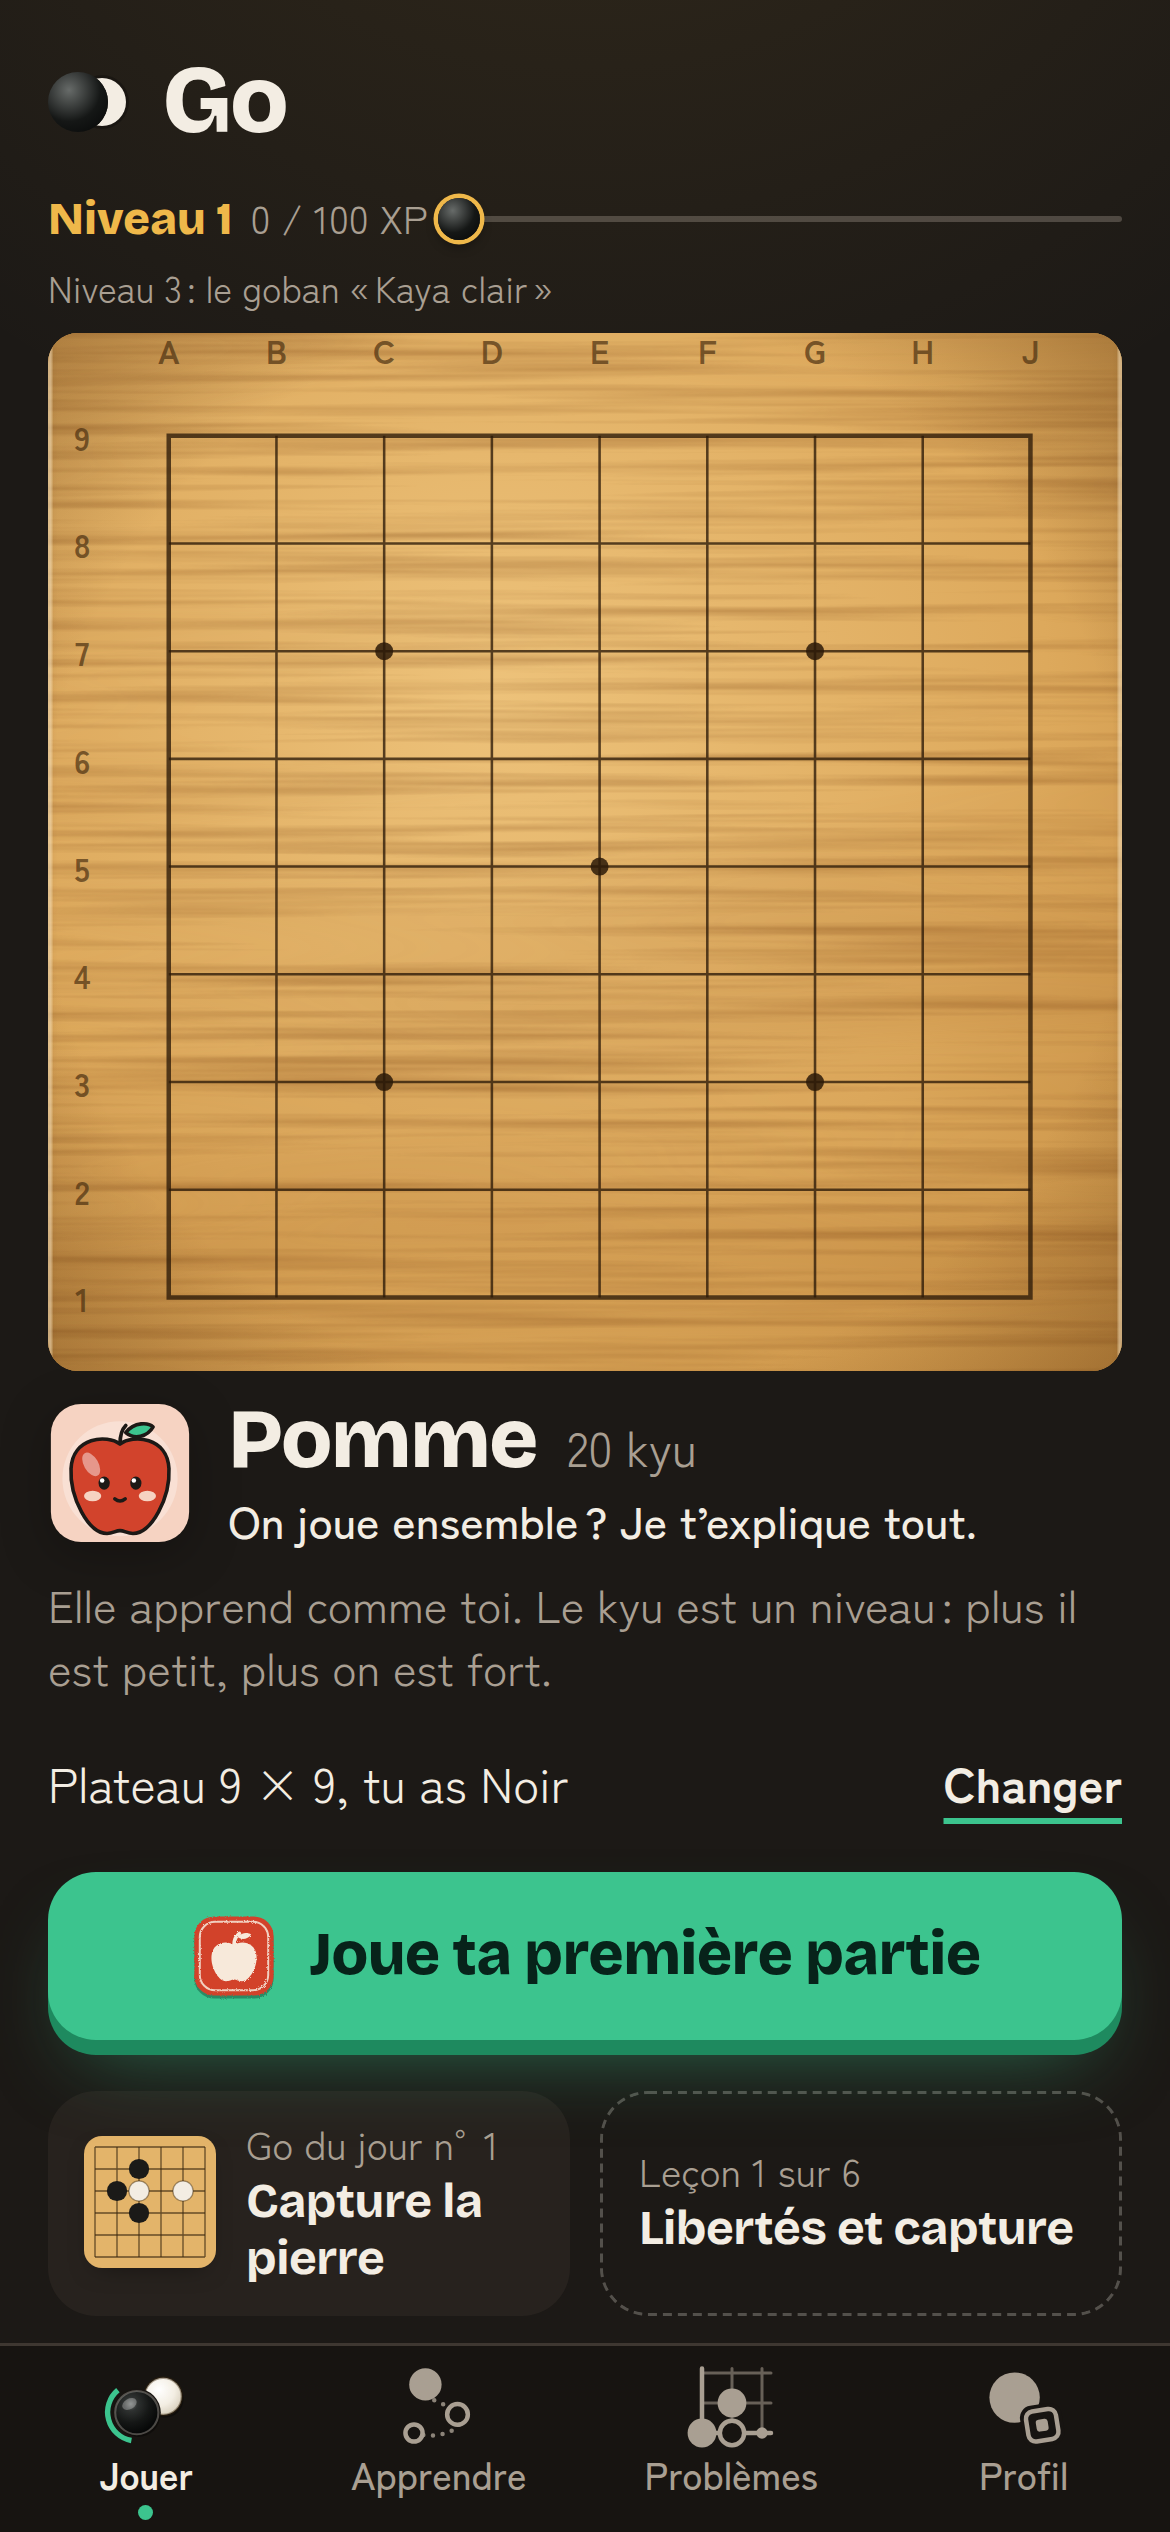
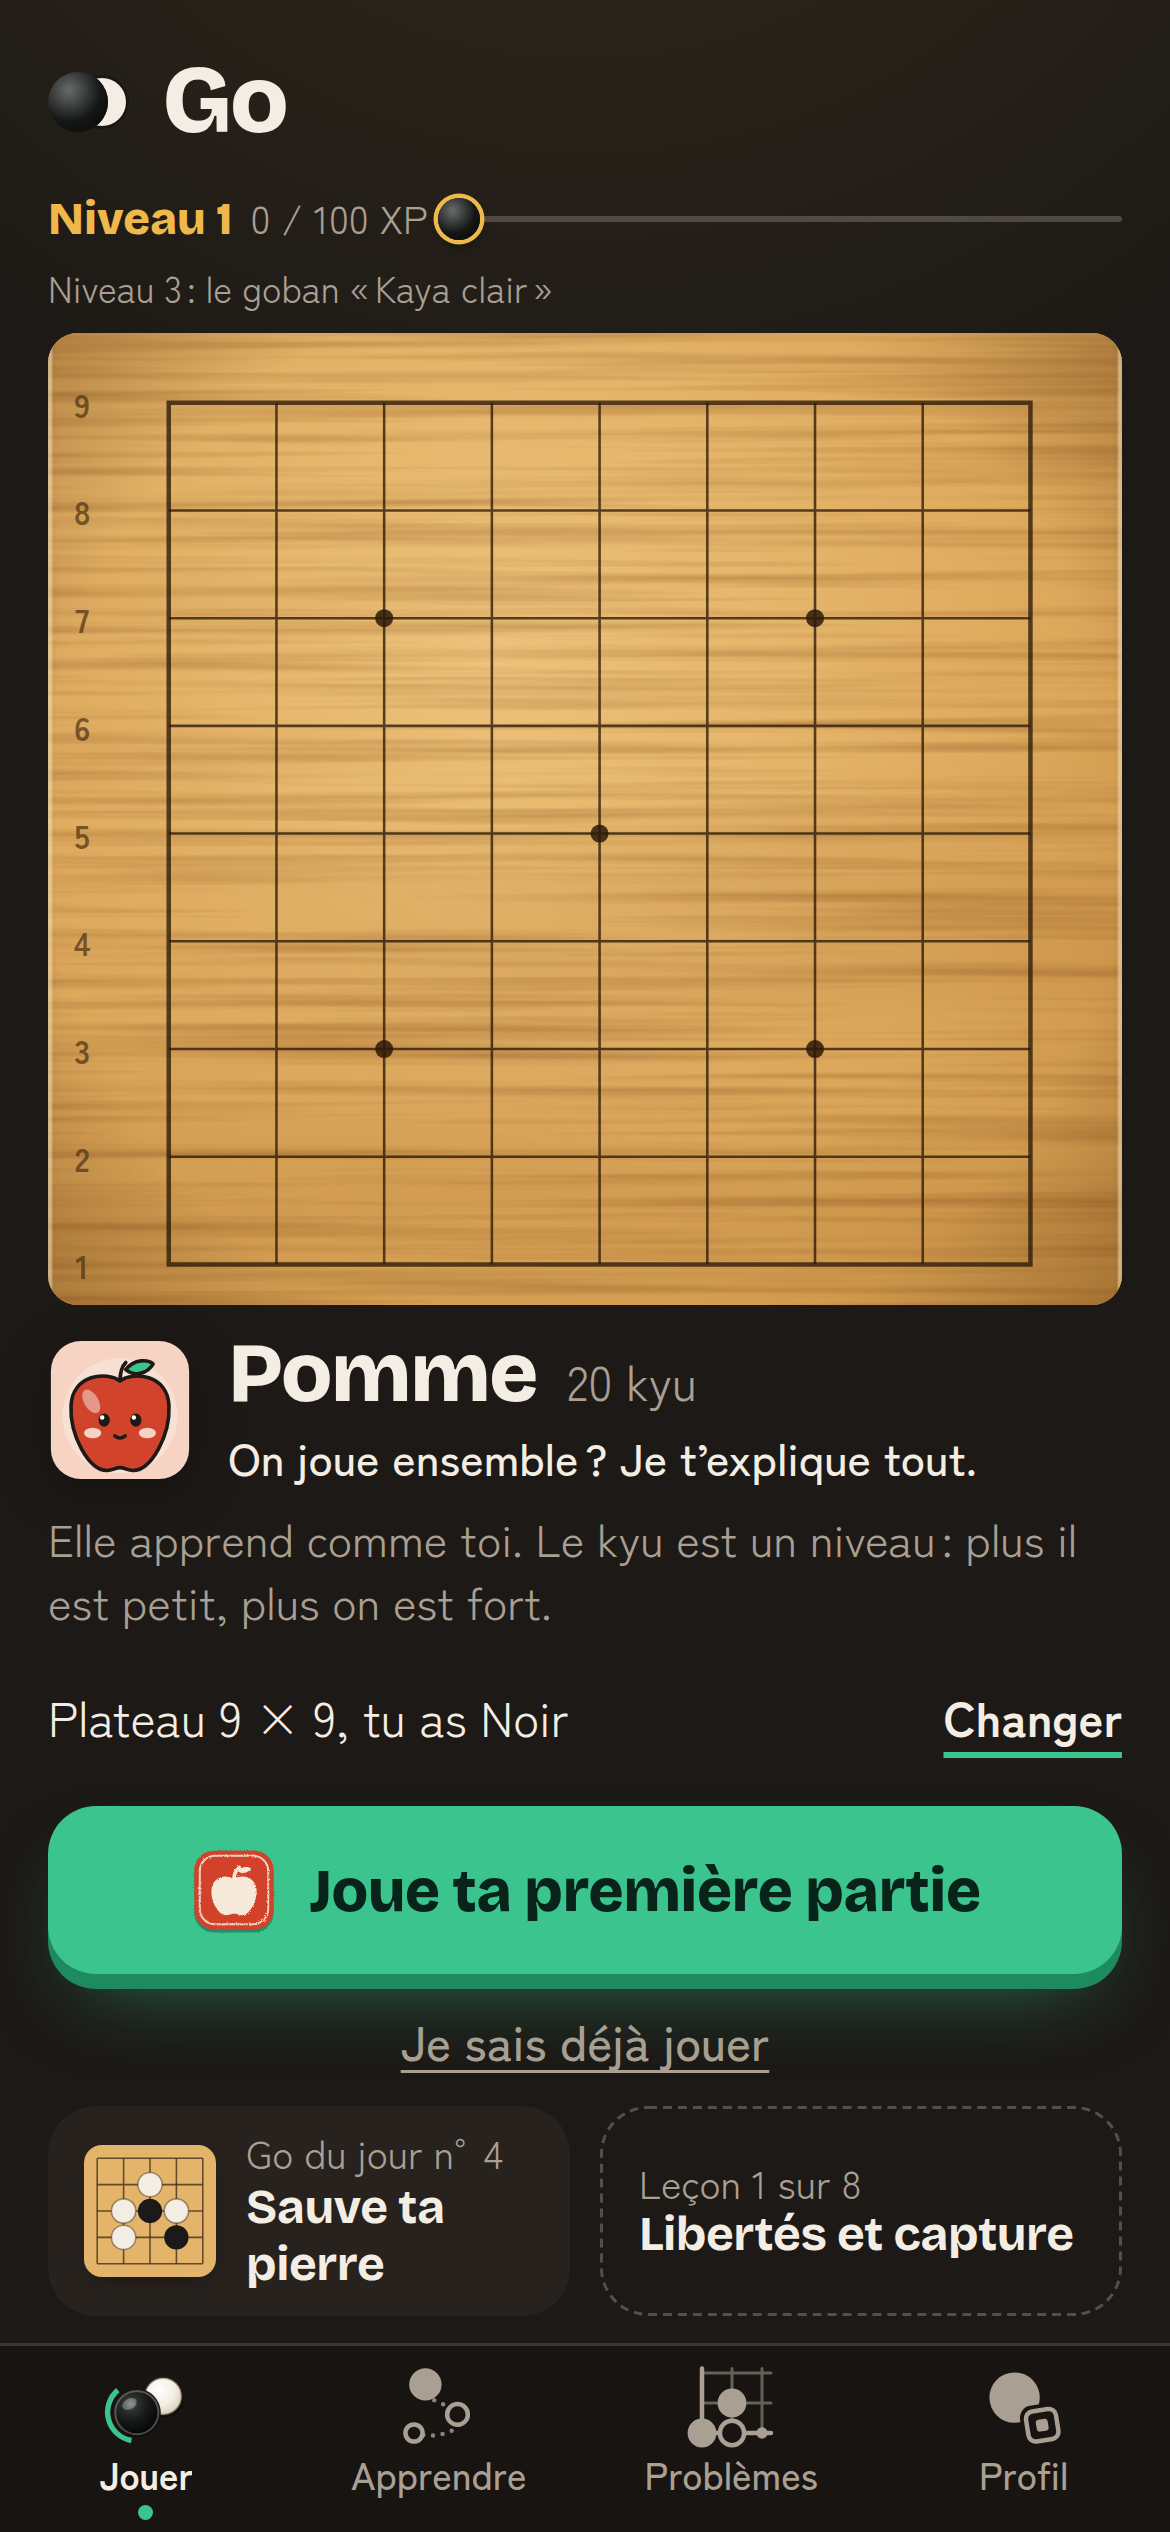
#329 Accueil : titre du Go du jour sur deux lignes sans rogner le goban
Claude-Session: https://claude.ai/code/session_01MBh4E5pGWe9HRzjpTV2rVx

diff --git a/src/ui/accueil.css b/src/ui/accueil.css
@@ -58,10 +58,12 @@
 
 /* ---------- Deux tuiles de nature différente ---------- */
 .tuiles { display: grid; grid-template-columns: repeat(auto-fit, minmax(min(100%, 9.5rem), 1fr)); /* #121 : une colonne quand la place manque */ gap: 10px; margin-top: calc(var(--space-3) + var(--relief)); }
-.tuile { display: flex; align-items: center; gap: 10px; min-height: 68px; padding: 10px 12px; border: 0; border-radius: var(--radius); background: var(--surface); text-align: left; }
+.tuile { display: flex; align-items: center; gap: 10px; min-height: 68px; padding: 8px 12px; border: 0; border-radius: var(--radius); background: var(--surface); text-align: left; }
 .tuile span { min-width: 0; }
 .tuile small { display: block; color: var(--muted); font-size: var(--fs-legende); line-height: 1.3; }
-.tuile b { display: block; font-family: var(--font-titre); font-weight: var(--fw-bold); letter-spacing: -0.01em; font-size: var(--fs-m); line-height: 1.2; }
+.tuile b { display: block; font-family: var(--font-titre); font-weight: var(--fw-bold); letter-spacing: -0.01em; font-size: var(--fs-m); line-height: 1.15;
+  /* Deux lignes au plus : un titre du jour long (n° 4 « Sauve ta pierre ») ne doit pas rogner le goban d'accueil. */
+  display: -webkit-box; -webkit-box-orient: vertical; -webkit-line-clamp: 2; line-clamp: 2; overflow: hidden; }
 /* Leçon suivante : « à faire plus tard », en pointillés. */
 /* #213 : état du Go du jour, en pastille dans le coin. « À faire » : or, comme la flamme creuse ; « Fait » : jade. */
 .tuile-probleme { position: relative; }
